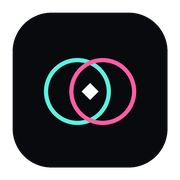
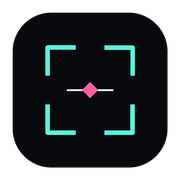
Redesign memory reels and brand system

Changed region(s): [[0.2222, 0.25, 0.7778, 0.75]]

diff --git a/src/App.css b/src/App.css
@@ -7,13 +7,11 @@
 .ambient-two { background: var(--cyan); top: 1550px; left: -300px; }
 
 .topbar { position: absolute; z-index: 10; top: 0; left: 0; right: 0; height: 88px; padding: 0 clamp(24px, 5vw, 78px); display: flex; align-items: center; justify-content: space-between; border-bottom: 1px solid rgba(255,255,255,.12); background: linear-gradient(#090b10bd, transparent); }
-.brand { display: inline-flex; align-items: center; gap: 12px; font: 600 16px/1 "Space Grotesk"; letter-spacing: .08em; }
-.brand > span:last-child > span { color: var(--cyan); }
-.brand-mark { position: relative; width: 31px; height: 31px; display: inline-grid; flex: 0 0 auto; place-items: center; isolation: isolate; }
-.brand-mark i { position: absolute; top: 6px; width: 18px; height: 18px; border: 1.5px solid; border-radius: 50%; }
-.brand-mark i:first-child { left: 1px; border-color: var(--cyan); box-shadow: 0 0 10px rgba(91,242,223,.28); }
-.brand-mark i:nth-child(2) { right: 1px; border-color: var(--pink); box-shadow: 0 0 10px rgba(255,93,162,.22); }
-.brand-mark b { position: relative; z-index: 1; width: 5px; height: 5px; border: 1px solid #080a0d; background: #fff; transform: rotate(45deg); box-shadow: 0 0 8px rgba(255,255,255,.75); }
+.brand { display: inline-flex; align-items: center; }
+.brand-lockup { display: inline-flex; align-items: center; padding: 9px 11px 8px 10px; background: linear-gradient(var(--cyan),var(--cyan)) left top/9px 1px no-repeat, linear-gradient(var(--cyan),var(--cyan)) left top/1px 9px no-repeat, linear-gradient(var(--cyan),var(--cyan)) right top/9px 1px no-repeat, linear-gradient(var(--cyan),var(--cyan)) right top/1px 9px no-repeat, linear-gradient(var(--cyan),var(--cyan)) left bottom/9px 1px no-repeat, linear-gradient(var(--cyan),var(--cyan)) left bottom/1px 9px no-repeat, linear-gradient(var(--cyan),var(--cyan)) right bottom/9px 1px no-repeat, linear-gradient(var(--cyan),var(--cyan)) right bottom/1px 9px no-repeat; filter: drop-shadow(0 0 5px rgba(91,242,223,.08)); }
+.brand-lockup strong { display: inline-flex; align-items: center; color: #f7f8fa; font: 650 14px/1 "Space Grotesk"; letter-spacing: .17em; white-space: nowrap; }
+.brand-lockup strong span { color: var(--cyan); font-weight: 700; text-shadow: 0 0 10px rgba(91,242,223,.3); }
+.brand-lockup strong i { width: 5px; height: 5px; margin: 0 9px 0 7px; background: var(--pink); transform: rotate(45deg); box-shadow: 0 0 8px rgba(255,93,162,.65); }
 nav { display: flex; gap: 44px; font: 400 11px/1 "DM Mono"; letter-spacing: .14em; text-transform: uppercase; color: #a1a6af; }
 nav a { position: relative; padding: 8px 0; }
 nav a::after { content: ""; position: absolute; left: 0; right: 100%; bottom: 0; height: 1px; background: var(--cyan); transition: right .25s; }
@@ -30,9 +28,12 @@ nav a.active { color: white; }
 .hero-image { animation: hero-image-in 1.15s ease both; }
 @keyframes hero-image-in { from { opacity: 0; transform: scale(1.045); } to { opacity: 1; transform: scale(1); } }
 .hero-scanline { position: absolute; inset: 0; z-index: 2; opacity: .15; background: repeating-linear-gradient(0deg, transparent 0 3px, #fff 4px); }
-.hero-code, .hero-caption { position: absolute; z-index: 3; font: 400 9px/1.6 "DM Mono"; letter-spacing: .13em; }
-.hero-code { top: 48px; left: 35px; color: var(--cyan); }
-.hero-caption { bottom: 62px; left: 52px; color: rgba(255,255,255,.75); text-transform: uppercase; }
+.hero-code, .hero-caption { position: absolute; z-index: 3; top: 48px; display: grid; gap: 2px; font: 400 9px/1.5 "DM Mono"; letter-spacing: .13em; text-transform: uppercase; text-shadow: 0 1px 8px rgba(0,0,0,.72); }
+.hero-code { left: 35px; }
+.hero-caption { top: auto; bottom: 54px; left: clamp(58px, 9%, 82px); text-align: left; }
+.hero-code small, .hero-caption small { color: rgba(255,255,255,.45); font: 400 7px/1.5 "DM Mono"; letter-spacing: .15em; }
+.hero-code span { color: var(--cyan); }
+.hero-caption time { color: rgba(255,255,255,.88); font: inherit; }
 .hero-copy { position: relative; z-index: 4; margin-left: clamp(-90px, -5vw, -40px); padding-top: 40px; }
 .eyebrow { font: 500 10px/1.3 "DM Mono"; letter-spacing: .18em; color: #9ba0aa; text-transform: uppercase; }
 .eyebrow span { display: inline-block; width: 30px; height: 1px; margin: 0 12px 3px 0; background: var(--cyan); box-shadow: 0 0 10px var(--cyan); }
@@ -64,28 +65,35 @@ nav a.active { color: white; }
 .search input { width: 100%; border: 0; outline: 0; background: transparent; color: white; font: 400 10px "DM Mono"; letter-spacing: .05em; }
 .search input::placeholder { color: #626771; text-transform: uppercase; }
 
-.photo-grid { display: grid; grid-template-columns: repeat(12, 1fr); gap: 52px 18px; }
-.photo-card { grid-column: span 4; min-width: 0; animation: card-in .75s both; animation-delay: var(--delay); }
-.photo-card:nth-child(6n + 1), .photo-card:nth-child(6n + 5) { grid-column: span 5; }
-.photo-card:nth-child(6n + 2), .photo-card:nth-child(6n + 6) { grid-column: span 3; margin-top: 68px; }
-.photo-card:nth-child(6n + 3), .photo-card:nth-child(6n + 4) { grid-column: span 4; margin-top: 25px; }
+.memory-reels { display: flex; flex-direction: column; gap: clamp(84px, 10vw, 150px); }
+.memory-reel { padding-top: 16px; border-top: 1px solid #25282e; }
+.reel-header { display: flex; align-items: end; justify-content: space-between; gap: 24px; margin-bottom: 17px; color: #646a74; font: 400 8px "DM Mono"; letter-spacing: .13em; text-transform: uppercase; }
+.reel-header div { display: flex; align-items: center; gap: 18px; }
+.reel-header span { color: var(--cyan); }
+.reel-header b { font-weight: 400; }
+.reel-header time { color: #858a93; }
+.reel-grid { display: grid; grid-template-columns: minmax(0, 2fr) repeat(2, minmax(0, 1fr)); grid-template-rows: repeat(2, minmax(210px, 1fr)); gap: 12px; height: min(64vw, 740px); }
+.memory-reel:nth-child(even) .reel-grid { grid-template-columns: repeat(2, minmax(0, 1fr)) minmax(0, 2fr); }
+.reel-frame { position: relative; min-width: 0; min-height: 0; overflow: hidden; background: #15171c; animation: card-in .75s both; animation-delay: var(--delay); }
+.reel-frame.lead { grid-row: 1 / 3; grid-column: 1; }
+.memory-reel:nth-child(even) .reel-frame.lead { grid-column: 3; }
 @keyframes card-in { from { opacity: 0; transform: translateY(22px); } }
-.photo-open { position: relative; display: block; width: 100%; aspect-ratio: 4/3; overflow: hidden; padding: 0; border: 0; background: #15171c; cursor: zoom-in; }
-.photo-card:nth-child(6n + 2) .photo-open, .photo-card:nth-child(6n + 6) .photo-open { aspect-ratio: 3/4; }
-.photo-open::after { content: ""; position: absolute; inset: 0; background: linear-gradient(0deg, #090a0e85, transparent 45%); transition: opacity .35s; }
-.photo-open img { width: 100%; height: 100%; object-fit: cover; transition: transform .7s cubic-bezier(.2,.7,.2,1), filter .4s; }
+.photo-open { position: relative; display: block; width: 100%; height: 100%; overflow: hidden; padding: 0; border: 0; background: #15171c; cursor: zoom-in; }
+.photo-open::after { content: ""; position: absolute; inset: 0; background: linear-gradient(0deg, rgba(5,6,9,.85), transparent 46%), linear-gradient(180deg, rgba(5,6,9,.5), transparent 25%); transition: opacity .35s; }
+.photo-open img { width: 100%; height: 100%; object-fit: cover; transition: transform .8s cubic-bezier(.2,.7,.2,1), filter .4s; }
 .photo-open:hover img { transform: scale(1.045); filter: saturate(1.15); }
-.photo-index { position: absolute; z-index: 2; top: 14px; left: 14px; padding: 5px 7px; background: #07090bbd; color: var(--cyan); font: 400 8px "DM Mono"; }
-.view-hint { position: absolute; z-index: 2; right: 16px; bottom: 15px; opacity: 0; transform: translateY(5px); font: 400 8px "DM Mono"; letter-spacing: .12em; transition: .3s; }
+.frame-number { position: absolute; z-index: 2; top: 15px; left: 15px; color: rgba(255,255,255,.72); font: 400 8px "DM Mono"; letter-spacing: .12em; }
+.frame-date { position: absolute; z-index: 2; left: 16px; bottom: 15px; color: white; font: 500 clamp(13px, 1.35vw, 20px) "Space Grotesk"; letter-spacing: -.025em; text-align: left; }
+.frame-date small { display: block; margin-bottom: 5px; color: var(--cyan); font: 400 7px "DM Mono"; letter-spacing: .15em; text-transform: uppercase; }
+.reel-frame.lead .frame-date { left: 22px; bottom: 21px; font-size: clamp(18px, 2vw, 27px); }
+.view-hint { position: absolute; z-index: 2; right: 16px; bottom: 17px; opacity: 0; transform: translateY(5px); font: 400 8px "DM Mono"; letter-spacing: .12em; transition: .3s; }
 .view-hint b { color: var(--cyan); font-size: 14px; margin-left: 7px; }
 .photo-open:hover .view-hint { opacity: 1; transform: none; }
-.photo-meta { display: flex; align-items: end; justify-content: space-between; gap: 15px; padding: 17px 2px 14px; }
-.capture-date span { display: block; margin-bottom: 6px; color: #626873; font: 400 7px "DM Mono"; letter-spacing: .16em; text-transform: uppercase; }
-.capture-date time { display: block; font: 500 17px "Space Grotesk"; letter-spacing: -.02em; }
-.heart { border: 0; background: transparent; color: #787d85; font-size: 22px; line-height: 1; padding: 0; cursor: pointer; transition: .2s; }
-.heart:hover, .heart.saved { color: var(--pink); transform: scale(1.15); }
-.photo-footer { display: flex; justify-content: space-between; border-top: 1px solid #24272d; padding: 9px 2px 0; color: #5f646d; font: 400 8px "DM Mono"; letter-spacing: .08em; text-transform: uppercase; }
-.photo-footer span:last-child { color: #8c919a; }
+.heart { border: 0; background: transparent; color: #9297a0; font-family: Arial, sans-serif; font-size: 22px; line-height: 1; padding: 0; cursor: pointer; transition: color .2s, filter .2s, transform .2s; }
+.heart:hover { color: var(--pink); filter: drop-shadow(0 0 5px rgba(255,93,162,.4)); transform: scale(1.12); }
+.heart.saved { color: var(--pink); filter: drop-shadow(0 0 5px rgba(255,93,162,.55)); }
+.heart.saved:hover { color: var(--pink); transform: scale(1.12); }
+.reel-heart { position: absolute; z-index: 3; top: 10px; right: 10px; display: grid; width: 34px; height: 34px; place-items: center; border: 1px solid rgba(255,255,255,.16); border-radius: 50%; color: rgba(255,255,255,.68); font-size: 17px; background: rgba(7,9,11,.58); backdrop-filter: blur(8px); }
 .empty-state { padding: 110px 20px; text-align: center; border: 1px solid #22252b; }
 .empty-state span { color: var(--pink); font: 400 9px "DM Mono"; letter-spacing: .2em; }
 .empty-state h3 { margin: 14px 0 7px; font: 500 28px "Space Grotesk"; }
@@ -99,7 +107,8 @@ nav a.active { color: white; }
 .about-bottom button { flex-shrink: 0; border: 0; border-bottom: 1px solid var(--cyan); padding: 10px 0; background: transparent; cursor: pointer; font: 400 9px "DM Mono"; letter-spacing: .1em; text-transform: uppercase; }
 .about-bottom button span { color: var(--cyan); margin-left: 18px; }
 footer { max-width: 1450px; min-height: 105px; margin: auto; padding: 30px clamp(24px, 5vw, 78px); display: flex; align-items: center; justify-content: space-between; border-top: 1px solid #24272d; color: #6e737c; font: 400 8px "DM Mono"; letter-spacing: .1em; text-transform: uppercase; }
-footer .brand { color: white; font-size: 13px; }
+footer .brand { color: white; }
+footer .brand-lockup strong { font-size: 12px; }
 .status i { display: inline-block; width: 6px; height: 6px; margin-right: 7px; border-radius: 50%; background: var(--cyan); box-shadow: 0 0 9px var(--cyan); }
 
 .lightbox { position: fixed; inset: 0; z-index: 50; display: flex; align-items: center; justify-content: center; padding: 30px 8vw; background: rgba(4,5,8,.93); backdrop-filter: blur(18px); animation: fade-in .25s both; }
@@ -126,8 +135,7 @@ footer .brand { color: white; font-size: 13px; }
   .hero h1 { font-size: clamp(60px, 14vw, 110px); }
   .intro, .primary-cta { margin-left: 0; }
   .hero-stats { position: static; margin-top: 65px; }
-  .photo-card, .photo-card:nth-child(n) { grid-column: span 6; margin-top: 0; }
-  .photo-card:nth-child(n) .photo-open { aspect-ratio: 4/3; }
+  .reel-grid { height: min(78vw, 670px); grid-template-rows: repeat(2, minmax(170px, 1fr)); }
   .about-bottom { margin-left: 18%; }
 }
 
@@ -138,8 +146,8 @@ footer .brand { color: white; font-size: 13px; }
   .hero, .archive { padding-left: 18px; padding-right: 18px; }
   .hero-image-wrap { height: 76vw; clip-path: polygon(0 3%, 96% 0, 100% 92%, 4% 100%); }
   .hero-image-wrap img { object-position: 48% center; }
-  .hero-code { left: 22px; top: 30px; }
-  .hero-caption { display: none; }
+  .hero-code { top: 48px; left: 35px; }
+  .hero-caption { top: auto; right: auto; bottom: 32px; left: 34px; font-size: 7px; }
   .hero-copy { margin-top: -18px; padding: 0; }
   .hero h1 { font-size: clamp(55px, 19vw, 82px); }
   .intro { margin-top: 28px; font-size: 13px; }
@@ -152,10 +160,25 @@ footer .brand { color: white; font-size: 13px; }
   .toolbar { align-items: stretch; flex-direction: column; margin-top: 35px; }
   .filters { flex-wrap: nowrap; overflow-x: auto; padding-bottom: 5px; }
   .filters button { flex: 0 0 auto; }
-  .photo-grid { gap: 38px 10px; }
-  .photo-card, .photo-card:nth-child(n) { grid-column: span 12; }
-  .photo-card:nth-child(3n + 2) { margin-left: 13%; }
-  .photo-card:nth-child(3n) { margin-right: 13%; }
+  .memory-reels { gap: 76px; }
+  .reel-header { align-items: start; }
+  .reel-header div { align-items: start; flex-direction: column; gap: 7px; }
+  .reel-grid,
+  .memory-reel:nth-child(even) .reel-grid {
+    grid-template-columns: repeat(2, minmax(0, 1fr));
+    grid-template-rows: auto;
+    height: auto;
+    gap: 8px;
+  }
+  .reel-frame.lead,
+  .memory-reel:nth-child(even) .reel-frame.lead { grid-column: 1 / -1; grid-row: auto; aspect-ratio: 16 / 10; }
+  .reel-frame.support { aspect-ratio: 1 / 1; }
+  .frame-date { left: 11px; bottom: 11px; font-size: clamp(11px, 3.5vw, 14px); }
+  .frame-date small { margin-bottom: 3px; font-size: 6px; }
+  .reel-frame.lead .frame-date { left: 15px; bottom: 14px; }
+  .frame-number { top: 11px; left: 11px; font-size: 7px; }
+  .view-hint { display: none; }
+  .reel-heart { top: 8px; right: 8px; width: 31px; height: 31px; }
   .about { padding-top: 80px; }
   .about blockquote { margin: 42px 0 55px; }
   .about-bottom { margin-left: 0; align-items: start; flex-direction: column; }

diff --git a/src/App.tsx b/src/App.tsx
@@ -87,7 +87,22 @@ const photos: Photo[] = archivePhotos
     title: "VRChat capture",
   }));
 
-const filters = ["All memories", "Portraits", "Friends", "Worlds", "Nightlife", "Archive"] as const;
+const filters = ["All memories", "Worlds", "Archive"] as const;
+
+const getPhotoYear = (date: string) => Number(date.match(/\b\d{4}\b/)?.[0] ?? 0);
+
+const formatReelDateRange = (firstDate: string, lastDate: string) => {
+  if (firstDate === lastDate) return firstDate;
+
+  const first = firstDate.match(/^([A-Z]{3}) (\d{2}), (\d{4})$/);
+  const last = lastDate.match(/^([A-Z]{3}) (\d{2}), (\d{4})$/);
+
+  if (first && last && first[3] === last[3]) {
+    return `${first[1]} ${first[2]} — ${last[1]} ${last[2]}, ${first[3]}`;
+  }
+
+  return `${firstDate} — ${lastDate}`;
+};
 
 function App() {
   const [activeFilter, setActiveFilter] = useState<(typeof filters)[number]>("All memories");
@@ -111,11 +126,26 @@ function App() {
   const visiblePhotos = useMemo(() => {
     const normalized = query.trim().toLowerCase();
     return photos.filter((photo) => {
-      const inFilter = activeFilter === "All memories" || photo.tag === activeFilter;
-      const matchesSearch = !normalized || `${photo.title} ${photo.tag} ${photo.date}`.toLowerCase().includes(normalized);
+      const inFilter = activeFilter === "All memories"
+        || (activeFilter === "Worlds" && photo.tag === "Worlds")
+        || (activeFilter === "Archive" && getPhotoYear(photo.date) < 2026);
+      const matchesSearch = !normalized || `${photo.title} ${photo.date}`.toLowerCase().includes(normalized);
       return inFilter && matchesSearch;
     });
   }, [activeFilter, query]);
+
+  const photoReels = useMemo(
+    () => Array.from(
+      { length: Math.ceil(visiblePhotos.length / 5) },
+      (_, reelIndex) => visiblePhotos
+        .slice(reelIndex * 5, reelIndex * 5 + 5)
+        .map((photo, frameIndex) => ({
+          photo,
+          index: reelIndex * 5 + frameIndex,
+        })),
+    ),
+    [visiblePhotos],
+  );
 
   useEffect(() => {
     if (selected === null) return;
@@ -149,8 +179,7 @@ function App() {
 
       <header className="topbar">
         <a className="brand" href="#top" aria-label="VR Archive home">
-          <span className="brand-mark" aria-hidden="true"><i /><i /><b /></span>
-          <span>VR<span>//</span>ARCHIVE</span>
+          <span className="brand-lockup"><strong><span>VR</span><i aria-hidden="true" />ARCHIVE</strong></span>
         </a>
         <nav aria-label="Main navigation">
           <a className="active" href="#gallery">Archive</a>
@@ -168,11 +197,11 @@ function App() {
               key={heroPhoto.src}
               className="hero-image"
               src={heroPhoto.src}
-              alt={`VRChat ${heroPhoto.tag.toLowerCase()} captured on ${heroPhoto.date}`}
+              alt={`VRChat photo captured on ${heroPhoto.date}`}
             />
             <div className="hero-scanline" />
-            <div className="hero-code">SIGNAL_{String(heroPhotoIndex + 1).padStart(3, "0")} // ONLINE</div>
-            <div className="hero-caption">Captured in VRChat<br />{heroPhoto.date}</div>
+            <div className="hero-code"><small>Archive // Online</small><span>FRAME_{String(heroPhotoIndex + 1).padStart(3, "0")}</span></div>
+            <div className="hero-caption"><small>Captured in VRChat</small><time>{heroPhoto.date}</time></div>
           </div>
 
           <div className="hero-copy">
@@ -192,8 +221,8 @@ function App() {
         <section className="archive" id="gallery" aria-labelledby="archive-title">
           <div className="section-heading">
             <div>
-              <p className="eyebrow"><span /> THE LATEST CAPTURES</p>
-              <h2 id="archive-title">RECENT <em>TRANSMISSIONS</em></h2>
+              <p className="eyebrow"><span /> CURATED IN SEQUENCE</p>
+              <h2 id="archive-title">MEMORY <em>REELS</em></h2>
             </div>
             <p className="archive-count"><b>{String(visiblePhotos.length).padStart(2, "0")}</b> / {photos.length} loaded</p>
           </div>
@@ -213,24 +242,35 @@ function App() {
           </div>
 
           {visiblePhotos.length ? (
-            <div className="photo-grid">
-              {visiblePhotos.map((photo, index) => (
-                <article className="photo-card" key={photo.src} style={{ "--delay": `${Math.min(index * 45, 360)}ms` } as React.CSSProperties}>
-                  <button className="photo-open" onClick={() => setSelected(index)} aria-label={`Open photo from ${photo.date}`}>
-                    <img src={photo.src} alt={`VRChat photo from ${photo.date}`} loading={index > 5 ? "lazy" : "eager"} />
-                    <span className="photo-index">{String(index + 1).padStart(2, "0")}</span>
-                    <span className="view-hint">VIEW <b>↗</b></span>
-                  </button>
-                  <div className="photo-meta">
-                    <div className="capture-date"><span>Captured</span><time>{photo.date}</time></div>
-                    <button className={saved.has(photo.src) ? "heart saved" : "heart"} onClick={() => toggleSaved(photo.src)} aria-label={saved.has(photo.src) ? `Unsave photo from ${photo.date}` : `Save photo from ${photo.date}`}>{saved.has(photo.src) ? "♥" : "♡"}</button>
+            <div className="memory-reels">
+              {photoReels.map((reel, reelIndex) => (
+                <section className="memory-reel" key={`${activeFilter}-${reelIndex}`} aria-label={`Memory reel ${reelIndex + 1}`}>
+                  <header className="reel-header">
+                    <div><span>REEL_{String(reelIndex + 1).padStart(2, "0")}</span><b>{reel.length} preserved frames</b></div>
+                    <time>{formatReelDateRange(reel[reel.length - 1].photo.date, reel[0].photo.date)}</time>
+                  </header>
+                  <div className="reel-grid">
+                    {reel.map(({ photo, index }, frameIndex) => (
+                      <article
+                        className={frameIndex === 0 ? "reel-frame lead" : "reel-frame support"}
+                        key={photo.src}
+                        style={{ "--delay": `${Math.min(frameIndex * 70, 280)}ms` } as React.CSSProperties}
+                      >
+                        <button className="photo-open" onClick={() => setSelected(index)} aria-label={`Open photo from ${photo.date}`}>
+                          <img src={photo.src} alt={`VRChat photo from ${photo.date}`} loading={index > 5 ? "lazy" : "eager"} />
+                          <span className="frame-number">FRAME_{String(index + 1).padStart(3, "0")}</span>
+                          <span className="frame-date"><small>Captured</small>{photo.date}</span>
+                          <span className="view-hint">OPEN <b>↗</b></span>
+                        </button>
+                        <button className={saved.has(photo.src) ? "heart reel-heart saved" : "heart reel-heart"} onClick={() => toggleSaved(photo.src)} aria-label={saved.has(photo.src) ? `Unsave photo from ${photo.date}` : `Save photo from ${photo.date}`} aria-pressed={saved.has(photo.src)}>♡</button>
+                      </article>
+                    ))}
                   </div>
-                  <div className="photo-footer"><span>FRAME_{String(index + 1).padStart(3, "0")}</span><span>{photo.tag}</span></div>
-                </article>
+                </section>
               ))}
             </div>
           ) : (
-            <div className="empty-state"><span>NO SIGNAL</span><h3>No memories found</h3><p>Try another search or transmission type.</p></div>
+            <div className="empty-state"><span>NO FRAMES</span><h3>No memories found</h3><p>Try another search or archive filter.</p></div>
           )}
         </section>
 
@@ -245,7 +285,7 @@ function App() {
       </main>
 
       <footer>
-        <a className="brand" href="#top"><span className="brand-mark" aria-hidden="true"><i /><i /><b /></span><span>VR<span>//</span>ARCHIVE</span></a>
+        <a className="brand" href="#top" aria-label="VR Archive home"><span className="brand-lockup"><strong><span>VR</span><i aria-hidden="true" />ARCHIVE</strong></span></a>
         <p>Made between worlds · 2026</p>
         <p className="status"><i /> ARCHIVE ONLINE</p>
       </footer>
@@ -257,7 +297,7 @@ function App() {
           <figure>
             <img src={visiblePhotos[selected].src} alt={`VRChat photo from ${visiblePhotos[selected].date}`} />
             <figcaption>
-              <div><span>{visiblePhotos[selected].tag} · CAPTURED</span><h2>{visiblePhotos[selected].date}</h2></div>
+              <div><span>CAPTURED</span><h2>{visiblePhotos[selected].date}</h2></div>
               <p>FRAME_{String(selected + 1).padStart(3, "0")}<br />VRCHAT ARCHIVE</p>
             </figcaption>
           </figure>

diff --git a/scripts/generate_brand_icons.py b/scripts/generate_brand_icons.py
@@ -15,12 +15,18 @@ draw.rounded_rectangle(
     fill=(8, 10, 13, 255),
 )
 
-draw = ImageDraw.Draw(canvas)
-draw.ellipse((250, 330, 630, 710), outline=(91, 242, 223, 255), width=24)
-draw.ellipse((394, 330, 774, 710), outline=(255, 93, 162, 255), width=24)
+cyan = (91, 242, 223, 255)
+white = (255, 255, 255, 170)
+pink = (255, 93, 162, 255)
+
+draw.line(((430, 270), (270, 270), (270, 430)), fill=cyan, width=26, joint="curve")
+draw.line(((594, 270), (754, 270), (754, 430)), fill=cyan, width=26, joint="curve")
+draw.line(((270, 594), (270, 754), (430, 754)), fill=cyan, width=26, joint="curve")
+draw.line(((594, 754), (754, 754), (754, 594)), fill=cyan, width=26, joint="curve")
+draw.line(((380, 512), (644, 512)), fill=white, width=10)
 draw.polygon(
-    ((512, 472), (560, 520), (512, 568), (464, 520)),
-    fill=(255, 255, 255, 255),
+    ((512, 466), (558, 512), (512, 558), (466, 512)),
+    fill=pink,
 )
 
 for filename, size in (("favicon.png", 64), ("apple-touch-icon.png", 180)):
